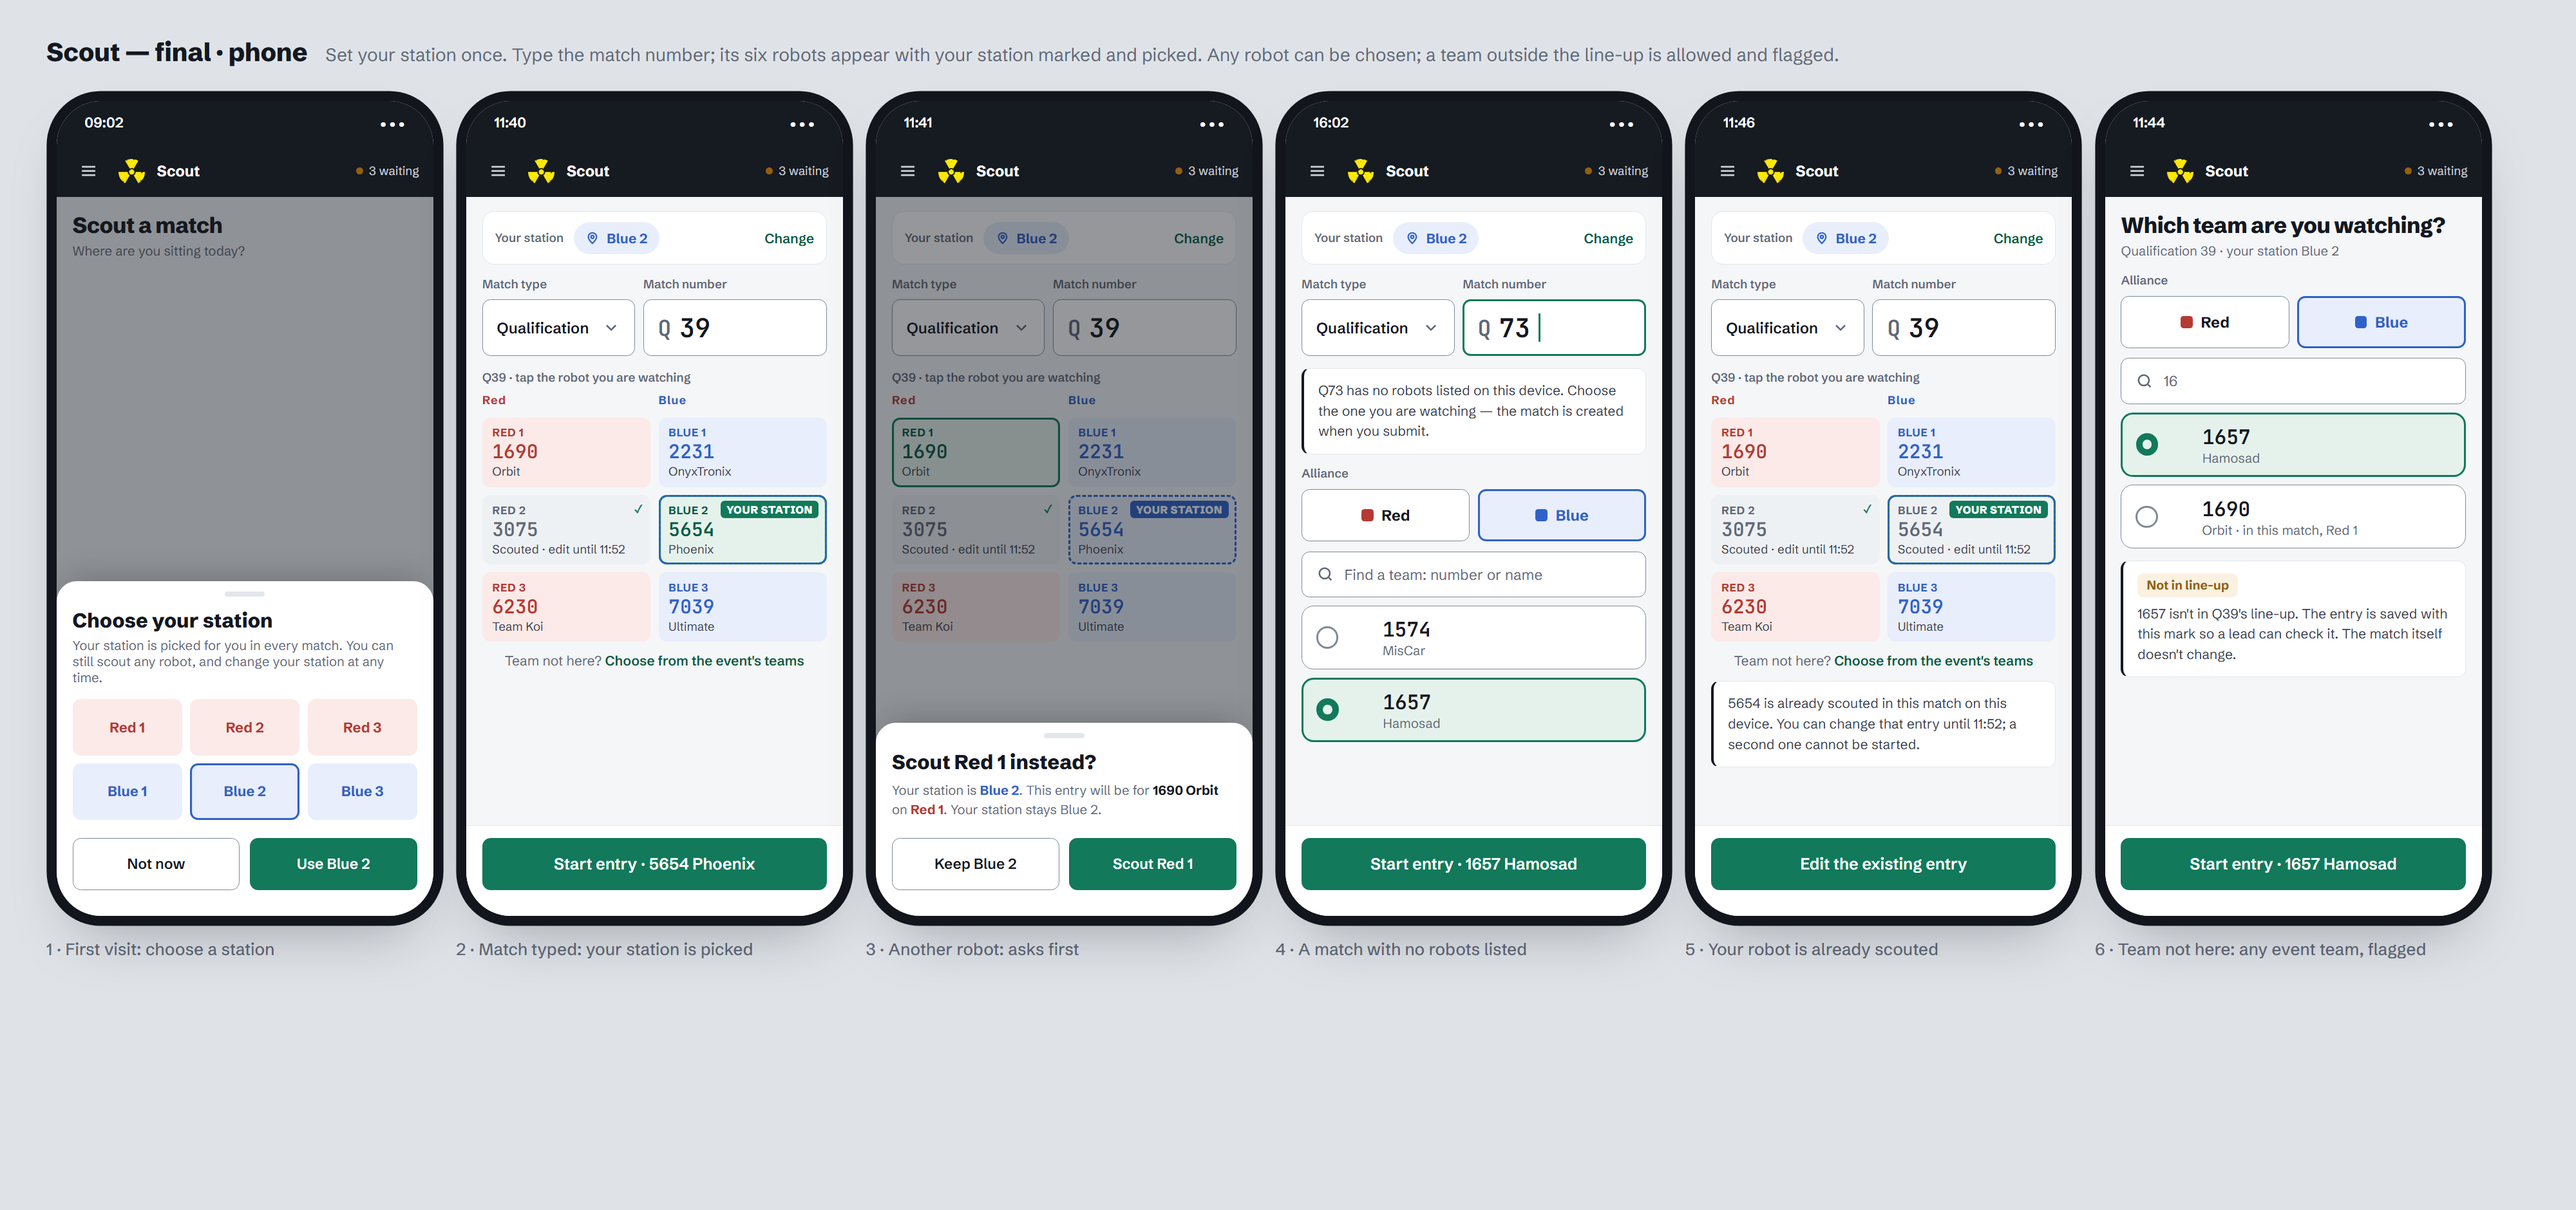
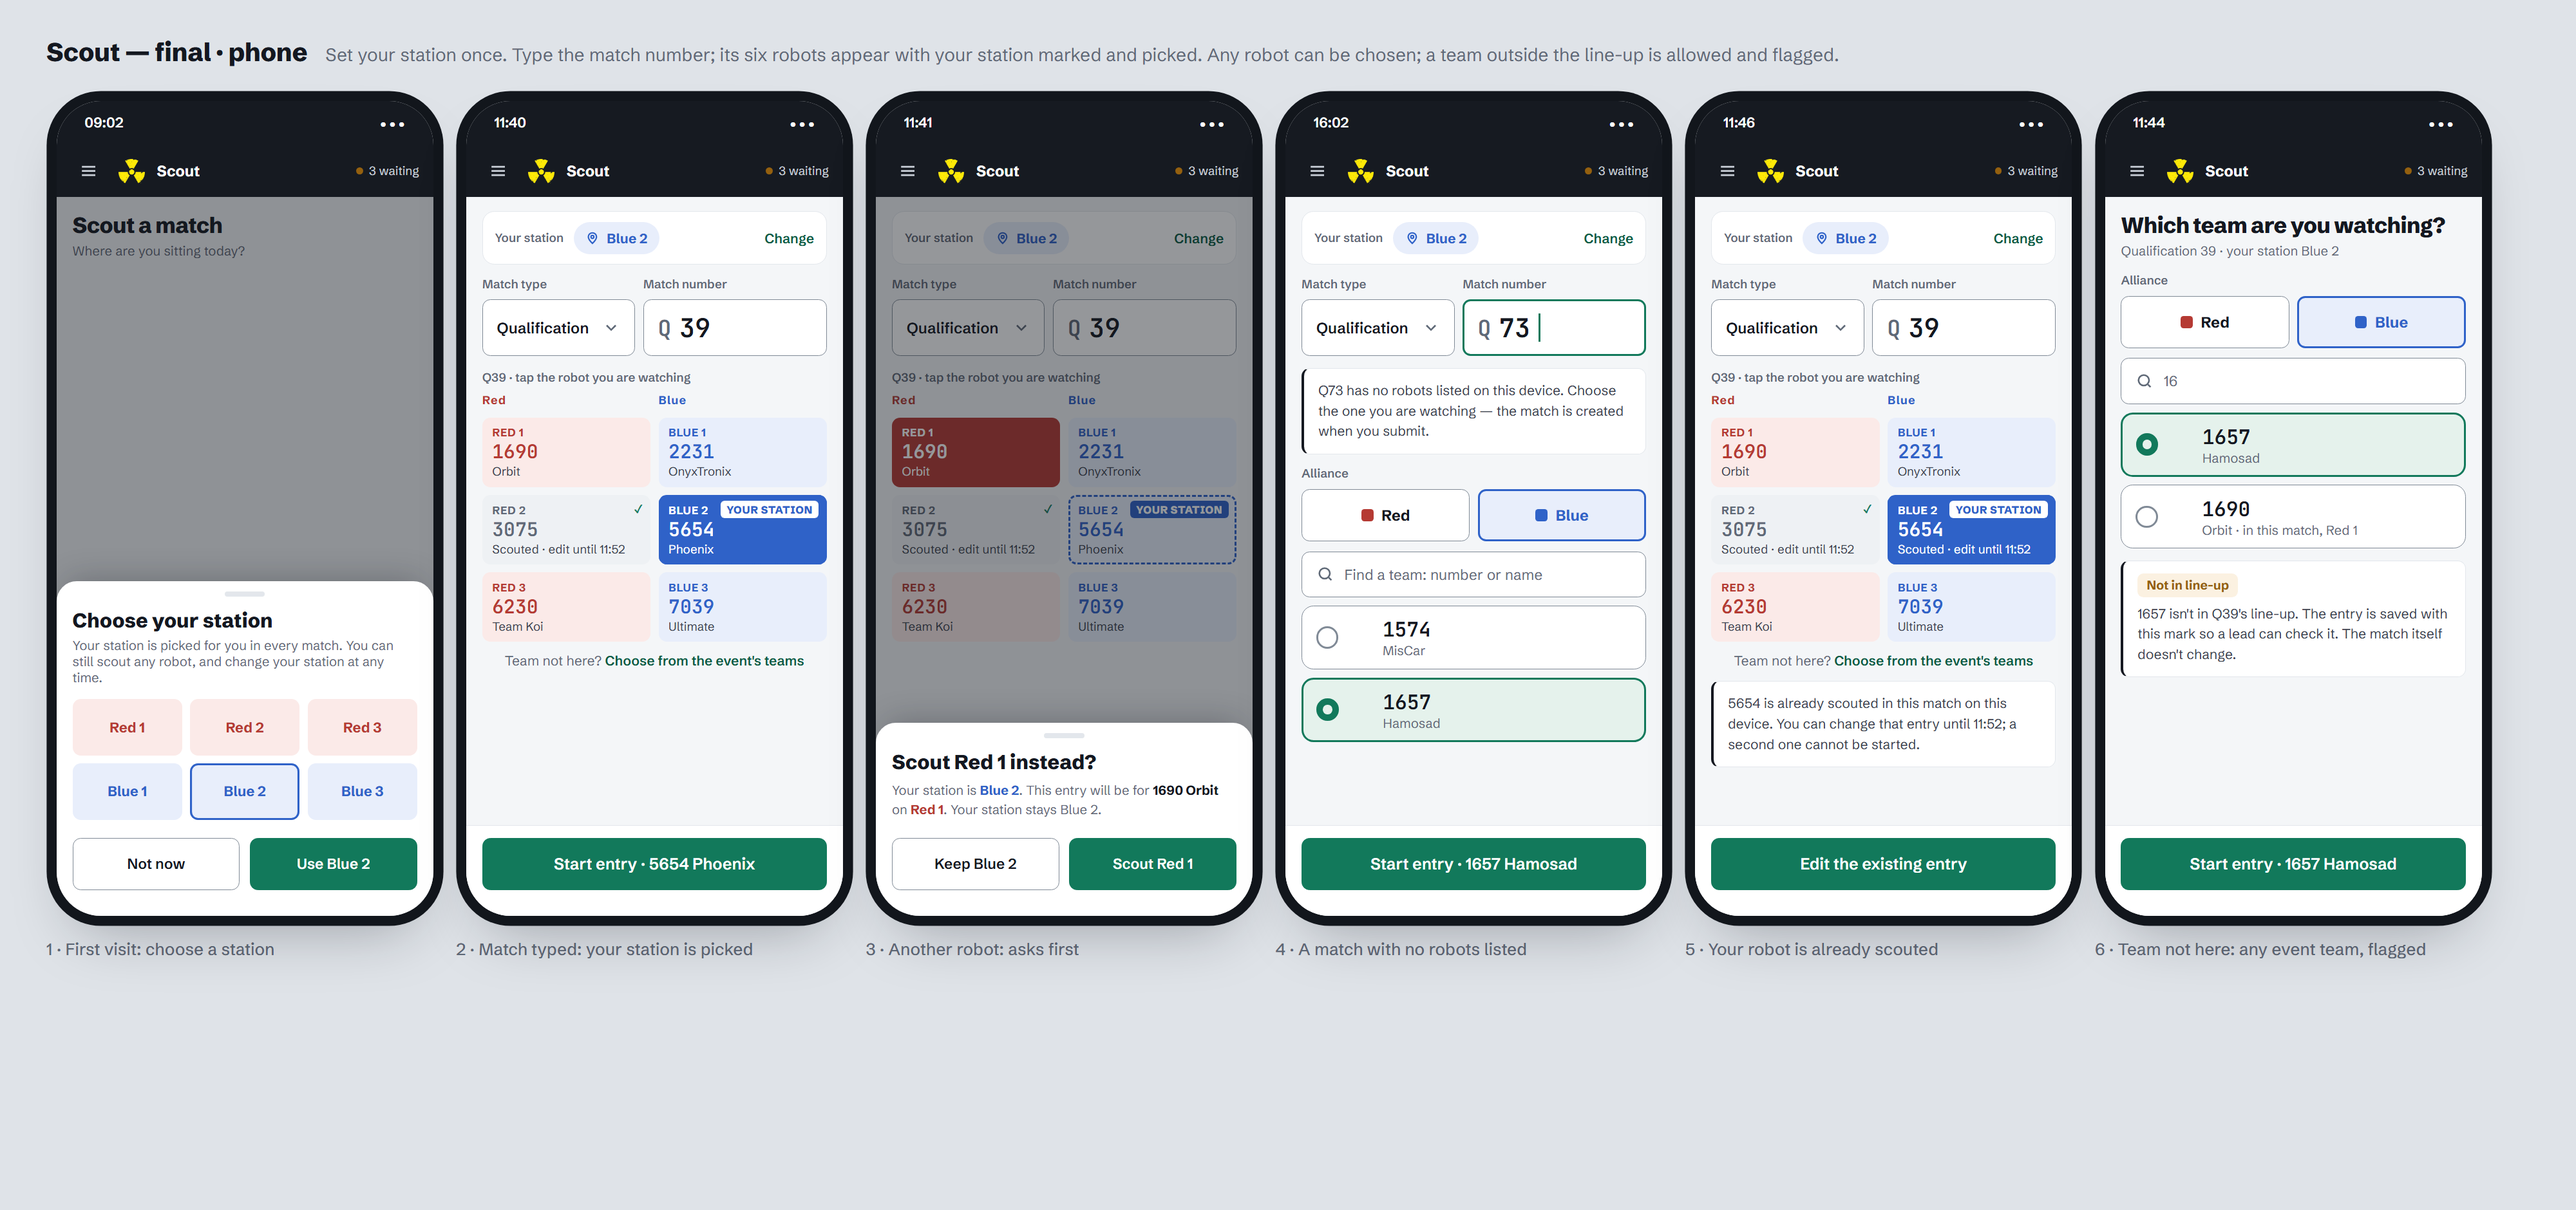
docs(design): Scout's picked station tile is filled with its alliance colour (v0.71)

Changed region(s): [[0.7188, 0.4011, 0.8125, 0.4628], [0.3438, 0.3394, 0.4375, 0.4011], [0.25, 0.4011, 0.3438, 0.4628]]

diff --git a/docs/design/pages/02-scout/src/e-station.css b/docs/design/pages/02-scout/src/e-station.css
@@ -134,3 +134,13 @@
 .tlist .robot {
   min-height: 56px;
 }
+
+/* Picked tile, amended 2026-10-08: filled with its alliance colour (was --accent-tint).
+   White text on --alliance-red 5.80:1, on --alliance-blue 5.67:1. */
+.station.on.r, .station.on.b { box-shadow: none; color: #fff; }
+.station.on.r { background: var(--alliance-red); }
+.station.on.b { background: var(--alliance-blue); }
+.station.on.r *, .station.on.b * { color: #fff !important; }
+.station.on .you { background: #fff !important; }
+.station.on.r .you { color: var(--alliance-red) !important; }
+.station.on.b .you { color: var(--alliance-blue) !important; }

diff --git a/docs/spec/frc-scouting-app-spec.md b/docs/spec/frc-scouting-app-spec.md
@@ -1,7 +1,7 @@
 # FRC Scouting Platform — Design Specification (Living Document)
 
 **Status:** DRAFT v0.35 — **topics 1–20 CLOSED; `SPEC-FINAL.md` written.** Every feature topic plus the system architecture, the deployment/operations model, the non-functional requirements and the delivery plan. Core forks decided (storage, versioning, offline stats, stack, access model, language, roles/auth, data-entry UX, offline-first & sync, realtime deferred → 45s refresh, dashboards & visualisation, search/ranking/browse, data quality, alliance selection, repo layout & services, environments & operations, performance/testing/privacy/deletion, phasing & delivery). **v1 = phases 0–2, due 2026-12-01** (§19.1, amended v0.67). Topic 14 is closed as **deferred in full to §24**, and topic 20 as **setup only** with the LLM connection parked. **No live questions remain.** `docs/spec/SPEC-FINAL.md` (v1.0, 2026-09-02) is the distilled build input; **it carries 32 consolidation decisions (its Appendix D) that resolve gaps this document left unstated, and it supersedes this document wherever the two differ on a v1 requirement.** `docs/plans/IMPLEMENTATION-PLAN.md` (v1.1, 2026-09-03) covers phases 0–1 in full task detail and phase 2 as headings. **The spec phase is complete; the build phase begins at the provisioning gate.**
-**Last updated:** 2026-10-08 (v0.70)
+**Last updated:** 2026-10-08 (v0.71)
 **Owner:** (your name / team number)
 **Destination:** this document, once all topics are CLOSED, becomes the input spec for Claude Code to generate an implementation plan.
 
@@ -1490,6 +1490,7 @@ Decisions get recorded here as topics close, so Claude Code (and future you) can
 
 | Date | Topic | Decision | Rationale |
 |---|---|---|---|
+| 2026-10-08 | 16 | **Scout: the picked station tile is filled with its alliance colour** (dark red or dark blue, white text) instead of the green accent tint. THEME.md "Station tile"; Scout final images re-rendered. | The user found the green pick read as a third colour beside red and blue; the alliance fill says at once which side the chosen robot is on. Accessibility holds: white on `--alliance-red` is 5.80:1 and on `--alliance-blue` 5.67:1. It is still a station's own colour, so "selected" cannot be confused with the other alliance. |
 | 2026-10-08 | 3 / 16 | **The builder's remaining screens designed; exports live in the app for 24 hours.** Match timer editor (phase rows, proportional bar, match end, a standard 0:15 · 2:15 · 0:30 preset when empty); Edit as JSON (line and column in the error, Apply held until valid); **Export saves the chosen version (draft or active) into Exports for 24 hours, then it is deleted; Import picks from the saved exports** (or a downloaded file); a form delete is confirmed by typing its phrase; offline pauses editing without losing changes. New table `form_exports`; expired rows are deleted whenever exports are listed or saved, so no scheduled job is needed. SPEC-FINAL v1.22 §3, §5.1, §5.9. | The user wanted exports kept in one place with a short life and Import choosing from that list, so admins see their options instead of hunting for files; 24 hours covers exporting at home and importing at the workshop the next day. A one-day store cannot be a backup, so the download stays as an option **[RAISED BY ME]**, accepted. Deleting a form wipes hundreds of entries on every device, so one click is not enough **[RAISED BY ME]**. |
 | 2026-10-08 | 3 / 16 | **Forms list designed (variant A + C's version timeline).** Two cards per season (match, super); each card shows status, fields, entries, last edited · who, and a version timeline with entries per version; every version opens the builder on itself — Continue (draft), Open (active, in-place edits), View (older, read-only) with Restore; Open builder opens the draft if any. The builder route takes the version. Season chips lose their coloured words. Needs an entries-per-version count and `form_versions.updated_by`. SPEC-FINAL v1.21 §3, §5.9, §17.9. | The user wanted A's cards but needed to open a specific version, which A alone could not; C's timeline gives each version its own button. The coloured "NEW"/"ACTIVE" words looked odd, so the chips use a plain label and a dot. "Who" cannot be shown without a column recording the editor **[RAISED BY ME]**. |
 | 2026-10-08 | 3 / 16 | **Form builder designed (variant D, "Live canvas").** The canvas draws each field with the scouter's real controls and pages by phase like the entry form; Try it is the preview and shows the saved data and what the analysis gets; top bar = Match timer + More (Edit as JSON · Export · Import · Delete form) + Save draft / Publish, with "Next incomplete" when Publish is held; the locked banner names the entry count; incomplete fields are marked in the warning colour, never red. **A new field's key follows its label until the first save, then is permanent.** `/admin/forms` + a Forms nav row close §4.3's open item. **Adding, removing or reordering a select option is structural** (forks a version); renaming an option's label is in place. SPEC-FINAL v1.20 §5.1, §5.9, §17.9. | The user picked D for seeing the form as the scouter will. A key frozen at "add field" would be `counter_7` forever in exports and analysis, so it follows the label until saved **[RAISED BY ME]**. The plan's red dot would read as the red alliance **[RAISED BY ME]**. A removed or reordered option would leave old entries holding values the active version lacks and shift ordinal ranks, so it must fork **[RAISED BY ME]**, confirmed by the user. |
@@ -1629,6 +1630,7 @@ Every edit is logged here so changes can be audited without reprinting the docum
 
 | Version | Date | Sections touched | Change |
 |---|---|---|---|
+| v0.71 | 2026-10-08 | header, 21, 23 · THEME.md (Station tile) · Scout final images | **Scout's picked station tile is filled red or blue by alliance**, not green. |
 | v0.70 | 2026-10-08 | header, 21, 23 · SPEC-FINAL v1.22 (§3 `form_exports`, §5.1, §5.9) · THEME.md · IMPLEMENTATION-PLAN v1.7 (1.29, 1.31, 1.32) | **Builder's remaining screens**: Match timer, Edit as JSON, Export / Import via a 24-hour Exports store, typed delete confirmation, offline. |
 | v0.69 | 2026-10-08 | header, 16.3, 21, 23 · SPEC-FINAL v1.21 (§3 `form_versions.updated_by`, §5.9, §17.9) · THEME.md · IMPLEMENTATION-PLAN v1.6 (1.29) | **Forms list designed**: two cards with version timelines; Continue / Open / View per version; builder route takes the version; plain season-chip labels. |
 | v0.68 | 2026-10-08 | header, 3.1, 4.3, 16.3, 21, 23 · SPEC-FINAL v1.20 (§5.1, §5.2, §5.3, §5.6, §5.9, §8.2, §17.9) · THEME.md · IMPLEMENTATION-PLAN v1.5 (1.29–1.31, 1.34, 1.35) | **Form builder designed** (variant D: live canvas paged by phase, Try it, Match timer + More); **map fields** open a full-screen map / dialog with your alliance at the bottom; event log may **ask where**; key follows the label until the first save; `/admin/forms` decided; select options: add / remove / reorder is structural. |

diff --git a/docs/design/THEME.md b/docs/design/THEME.md
@@ -105,7 +105,7 @@ Each page round adds a row here: what was picked, which page it came from, and t
 | Summary list | White card, `--line` border. Group headings are 12 px `--muted`; rows show the label in `--muted` and the value in `--ink` 600 | Entry, 2026-10-06 |
 | Note (inline explanation) | White, `--line` border with a 3 px `--ink` left edge, 13.5 px text | Entry, 2026-10-06 |
 | Alliance tag | `--alliance-*-tint` background, `--alliance-*` text, `--radius-tag` | Entry, 2026-10-06 |
-| Station tile | Alliance tint (`--alliance-*-tint`), label "RED 1" 11 px / 700 in the alliance colour, team number in JetBrains Mono 19 px, name 12 px. Picked: `--accent-tint` with a 2 px inset `--accent` ring. Done: `--line-2` grey with ✓ or 🔒 at the top right. "YOUR STATION" tag: 10.5 px / 800 white on the alliance colour (on `--accent` when picked) | Scout, 2026-10-06 |
+| Station tile | Alliance tint (`--alliance-*-tint`), label "RED 1" 11 px / 700 in the alliance colour, team number in JetBrains Mono 19 px, name 12 px. Picked (amended 2026-10-08): **filled with its alliance colour** (`--alliance-red` / `--alliance-blue`), all text white, the "YOUR STATION" tag white with alliance-coloured text; was `--accent-tint` with an `--accent` ring. Done: `--line-2` grey with ✓ or 🔒 at the top right. "YOUR STATION" tag: 10.5 px / 800 white on the alliance colour (on `--accent` when picked) | Scout, 2026-10-06 |
 | Station pill | 32 px pill in the alliance tint with a location-pin icon, e.g. "Blue 2" | Scout, 2026-10-06 |
 | Large number field | 56 px, `--control-border`, JetBrains Mono 26 px value with a muted prefix ("Q"). Focused: 2 px `--accent` border | Scout, 2026-10-06 |
 | Select (dropdown) | 56 px, white, `--control-border`, 15 px / 600 text, chevron in `--muted` | Scout, 2026-10-06 |

diff --git a/docs/design/pages/02-scout/final/README.md b/docs/design/pages/02-scout/final/README.md
@@ -14,6 +14,7 @@ Chosen: **variant E**, which combines C (my station) and D (driver stations) and
 3. **The line-up.** When the typed match has a line-up on the device:
    - its six robots show as station tiles, Red 1–3 on the left and Blue 1–3 on the right, each with the team number and name
    - your station's tile has a "YOUR STATION" tag and is **picked by default**
+   - **the picked tile is filled with its alliance colour** (dark red or dark blue, white text), not green (amended 2026-10-08, user)
    - the primary button names the choice: "Start entry · 5654 Phoenix"
 4. **Another robot in the line-up.** Tapping a tile other than your station opens a sheet: "Scout Red 1 instead? Your station is Blue 2. This entry will be for 1690 Orbit on Red 1. Your station stays Blue 2." with Keep Blue 2 / Scout Red 1.
 5. **No line-up.** For a match that is new to the device, or listed with no robots:
